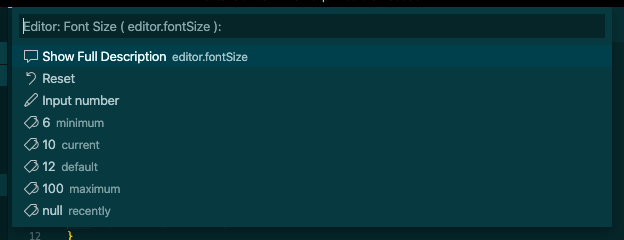
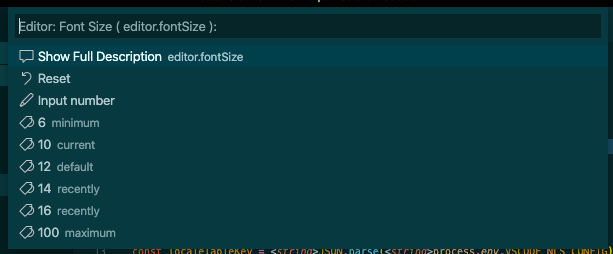
🦋 誤って null 値が recently な値として登録されるバグの修正

Changed region(s): [[0.0, 0.0583, 1.0, 1.0], [0.031, 0.0, 0.9918, 0.0292]]

diff --git a/source/extension.ts b/source/extension.ts
@@ -658,9 +658,12 @@ const setRecentlyValues = async (entry: UndoEntry) =>
     const values = recentlyValues[makePointerStrageId(entry.pointer)] ?? [];
     const add = (value: unknown) =>
     {
-        const json = JSON.stringify(value);
-        spliceWhere(values, i => i === json);
-        values.splice(0, 0, json);
+        if (undefined !== value)
+        {
+            const json = JSON.stringify(value);
+            spliceWhere(values, i => i === json);
+            values.splice(0, 0, json);
+        }
     };
     add(entry.oldValue); // blitz 以外で設定されてた値を拾う為
     add(entry.newValue);

diff --git a/CHANGELOG.md b/CHANGELOG.md
@@ -4,6 +4,12 @@ All notable changes to the "blitz" extension will be documented in this file.
 
 Check [Keep a Changelog](http://keepachangelog.com/) for recommendations on how to structure this file.
 
+## 1.1.0 - 2020-08-06
+
+### Fixed
+
+- Fixed an issue where null value could be incorrectly registered as recently values.
+
 ## 1.0.0 - 2020-08-05
 
 ### Added
